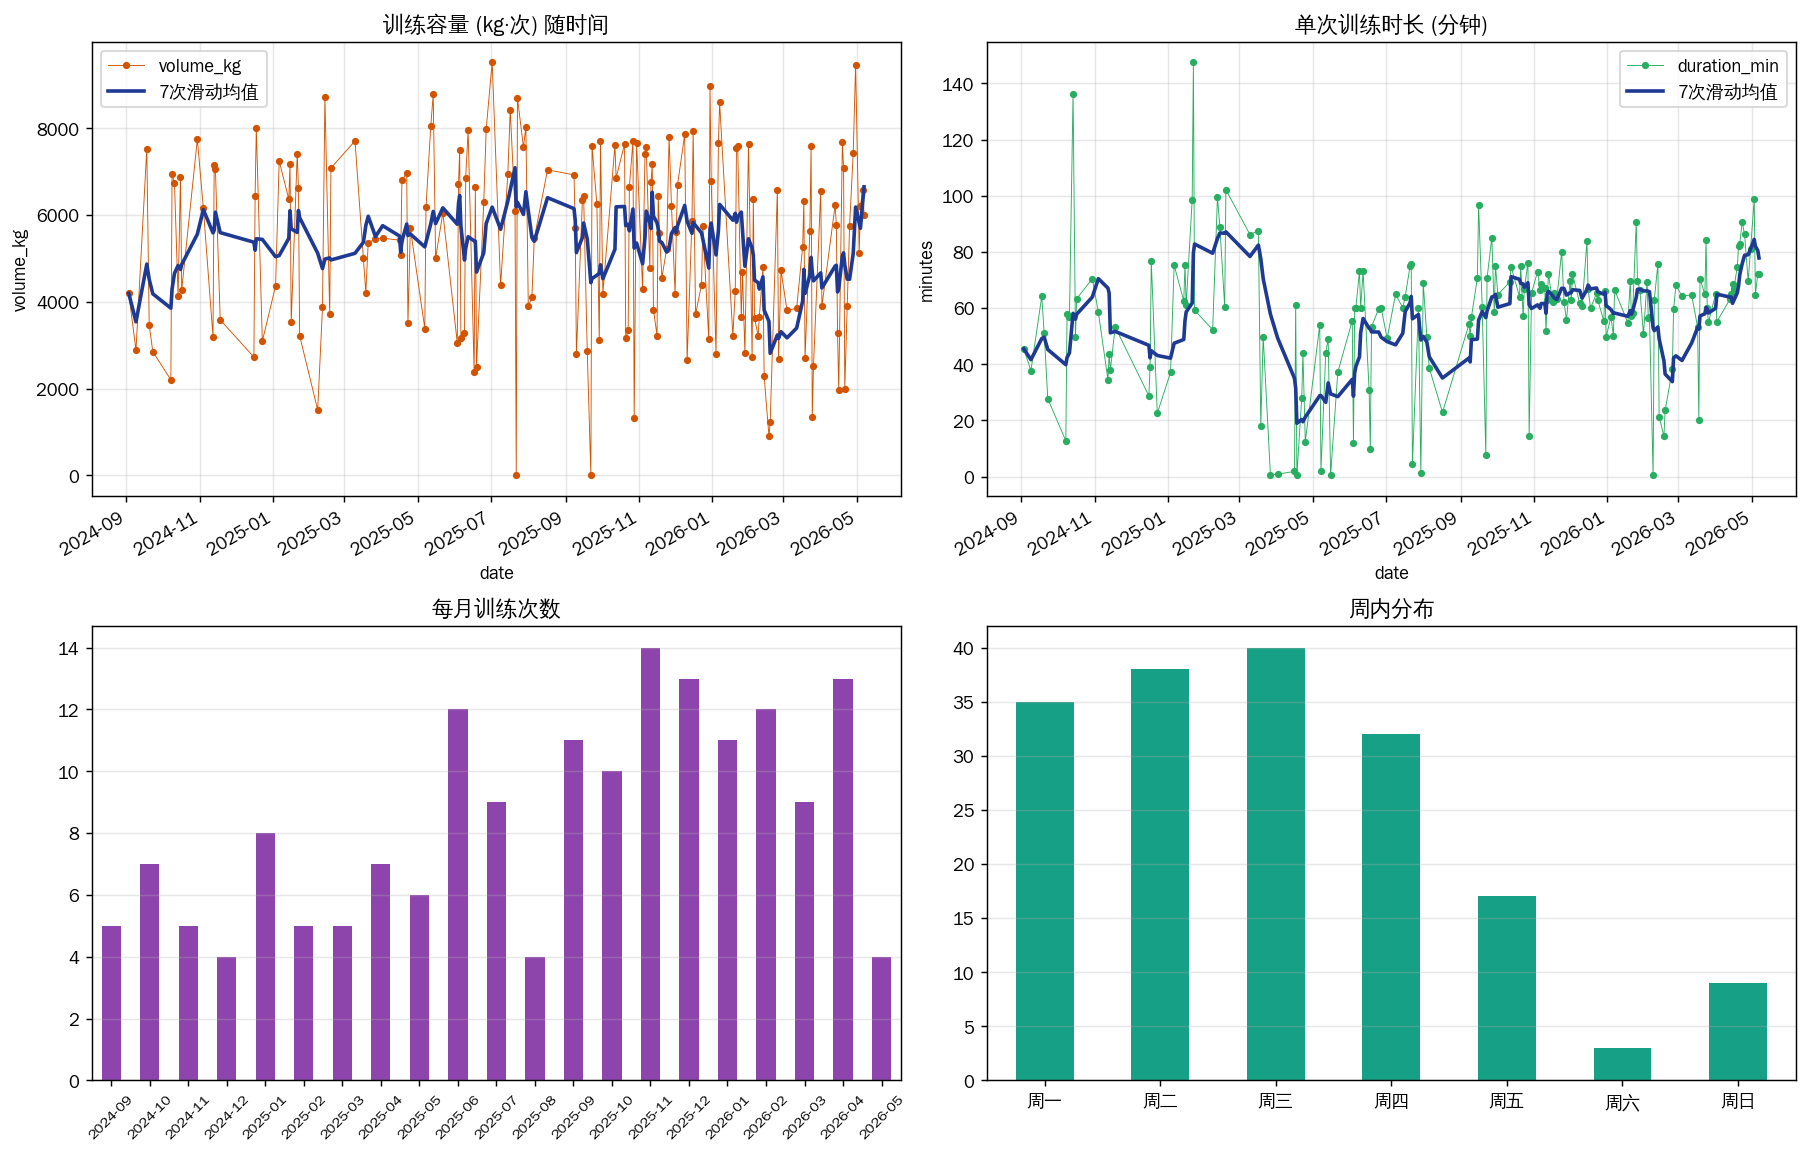
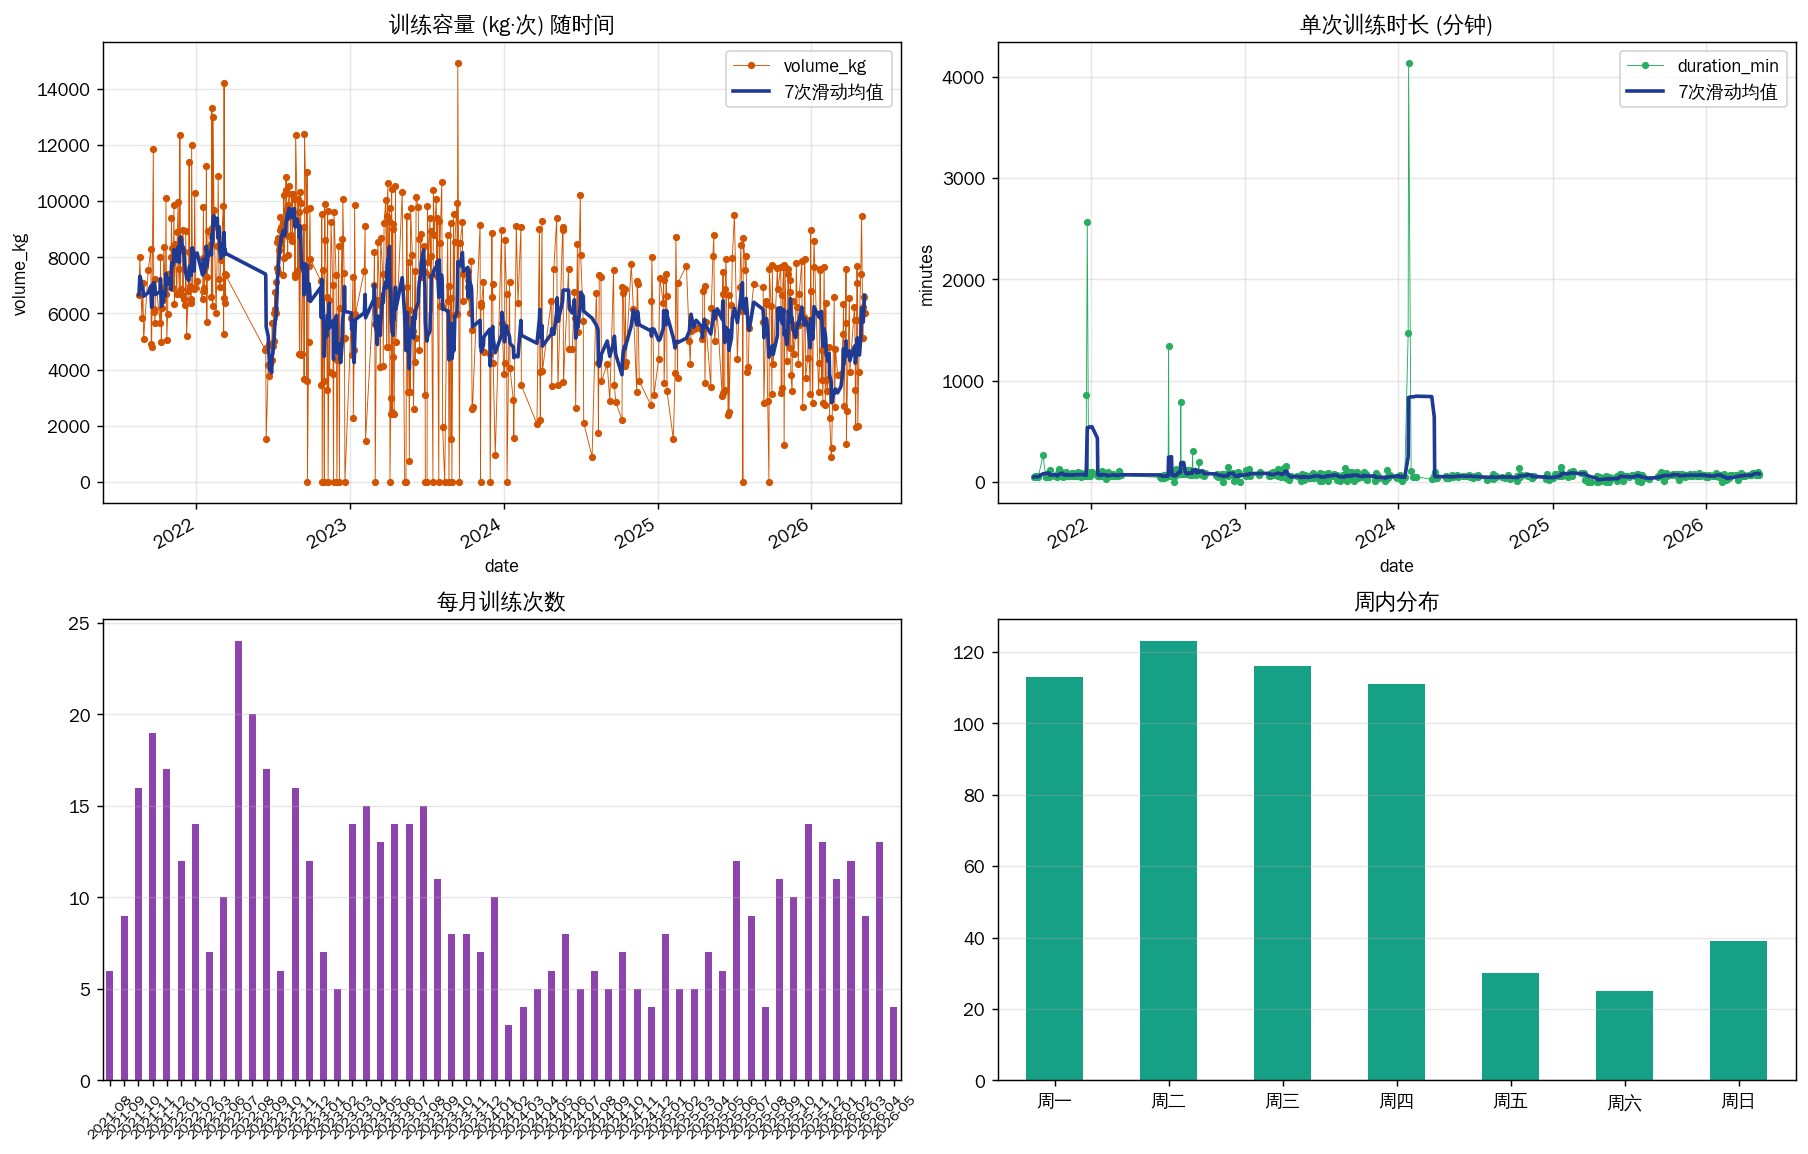
data: backfill 2021-08-18 → 2024-08-31 (557 sessions over 4.7 years)

diff --git a/analysis/report.md b/analysis/report.md
@@ -1,35 +1,70 @@
 # 训记数据分析报告
 
-**数据范围**: 2024-09-03 → 2026-05-07 (共 612 天)
-**训练日数**: 174 天 (训练频率 28.4%, 平均每周 1.99 次)
-**总训练时长**: 10006 分钟 ≈ 166.8 小时
-**总卡路里**: 48201 kcal (有记录的 117 次)
-**总训练容量**: 929,877 kg·次
-**总组数**: 3067  **总次数**: 26847
+**数据范围**: 2021-08-18 → 2026-05-07 (共 1724 天)
+**训练日数**: 557 天 (训练频率 32.3%, 平均每周 2.26 次)
+**总训练时长**: 46145 分钟 ≈ 769.1 小时
+**总卡路里**: 52993 kcal (有记录的 126 次)
+**总训练容量**: 3,492,629 kg·次
+**总组数**: 10998  **总次数**: 107554
 
 ## 单次训练分布
 ```
        duration_min  calorie  n_exercises  n_sets  volume_kg
-count         174.0    117.0        174.0   174.0      174.0
-mean           57.5    412.0          3.6    17.6     5344.1
-std            24.2    172.6          1.2     4.9     2084.7
-min             0.4      1.0          1.0     4.0        0.0
-25%            49.8    327.0          3.0    14.0     3592.5
-50%            61.0    437.0          4.0    17.0     5668.5
-75%            69.6    515.0          4.0    21.0     7055.0
-max           147.5    840.0          6.0    32.0     9520.0
+count         557.0    126.0        557.0   557.0      557.0
+mean           82.8    420.6          4.1    19.7     6270.4
+std           224.0    173.2          1.5     6.3     2758.3
+min             0.0      1.0          1.0     2.0        0.0
+25%            52.3    350.8          3.0    16.0     4345.0
+50%            62.6    437.5          4.0    20.0     6630.0
+75%            74.4    519.8          5.0    24.0     8193.5
+max          4141.9    840.0          8.0    33.0    14935.4
 ```
 
 ## 周内分布 (周几更常练)
-- 周一: 35 次
-- 周二: 38 次
-- 周三: 40 次
-- 周四: 32 次
-- 周五: 17 次
-- 周六: 3 次
-- 周日: 9 次
+- 周一: 113 次
+- 周二: 123 次
+- 周三: 116 次
+- 周四: 111 次
+- 周五: 30 次
+- 周六: 25 次
+- 周日: 39 次
 
 ## 每月训练频次
+- 2021-08: 6 次
+- 2021-09: 9 次
+- 2021-10: 16 次
+- 2021-11: 19 次
+- 2021-12: 17 次
+- 2022-01: 12 次
+- 2022-02: 14 次
+- 2022-03: 7 次
+- 2022-06: 10 次
+- 2022-07: 24 次
+- 2022-08: 20 次
+- 2022-09: 17 次
+- 2022-10: 6 次
+- 2022-11: 16 次
+- 2022-12: 12 次
+- 2023-01: 7 次
+- 2023-02: 5 次
+- 2023-03: 14 次
+- 2023-04: 15 次
+- 2023-05: 13 次
+- 2023-06: 14 次
+- 2023-07: 14 次
+- 2023-08: 15 次
+- 2023-09: 11 次
+- 2023-10: 8 次
+- 2023-11: 8 次
+- 2023-12: 7 次
+- 2024-01: 10 次
+- 2024-02: 3 次
+- 2024-03: 4 次
+- 2024-04: 5 次
+- 2024-05: 6 次
+- 2024-06: 8 次
+- 2024-07: 5 次
+- 2024-08: 6 次
 - 2024-09: 5 次
 - 2024-10: 7 次
 - 2024-11: 5 次
@@ -53,50 +88,52 @@ max           147.5    840.0          6.0    32.0     9520.0
 - 2026-05: 4 次
 
 ## 最常做的动作 (Top 20)
-- 抬腿: 59 次出现
-- 杠铃卧推: 50 次出现
-- 器械飞鸟: 36 次出现
-- 引体向上（辅助）: 35 次出现
-- 绳索臂屈伸: 33 次出现
-- 杠铃划船: 33 次出现
-- 硬拉: 28 次出现
-- 站姿杠铃推举: 27 次出现
-- 绳索跪姿卷腹: 26 次出现
-- 深蹲: 25 次出现
-- 侧平举: 23 次出现
-- 悍马机推胸: 23 次出现
-- 腿弯举: 22 次出现
-- 杠铃弯举: 18 次出现
-- 坐姿腿屈伸: 18 次出现
-- 哑铃划船: 15 次出现
-- 上斜哑铃弯举: 14 次出现
-- 悬挂抬腿: 13 次出现
-- 上斜杠铃卧推: 12 次出现
-- 双杠臂屈伸（辅助）: 11 次出现
+- 杠铃卧推: 183 次出现
+- 绳索臂屈伸: 149 次出现
+- 器械飞鸟: 119 次出现
+- 上斜杠铃卧推: 108 次出现
+- 悍马机推胸: 103 次出现
+- 引体向上（辅助）: 100 次出现
+- 抬腿: 97 次出现
+- 杠铃划船: 96 次出现
+- 站姿杠铃推举: 95 次出现
+- 深蹲: 94 次出现
+- 杠铃弯举: 86 次出现
+- 硬拉: 86 次出现
+- 侧平举: 65 次出现
+- 哑铃推肩: 64 次出现
+- 绳索弯举: 62 次出现
+- 器械弯举: 54 次出现
+- 宽距下拉: 47 次出现
+- 器械划船: 47 次出现
+- 悬挂抬腿: 41 次出现
+- 坐姿腿屈伸: 40 次出现
 
 ## 关键动作历史最高重量 (PR)
 - **卧推** → 杠铃卧推: 80kg × 8次 (2025-04-22)
-- **深蹲** → 深蹲: 100kg × 8次 (2025-06-10)
+- **深蹲** → 深蹲: 101.6kg × 6次 (2023-11-09)
 - **硬拉** → 硬拉: 110kg × 6次 (2025-05-22)
-- **划船** → 杠铃划船: 70kg × 8次 (2026-02-13)
-- **推举** → 史密斯机推举: 50kg × 8次 (2025-08-01)
-- **弯举** → 腿弯举: 41.5kg × 8次 (2026-04-25)
-- **下拉** → 悍马机正手下拉: 55kg × 10次 (2025-05-16)
-- **引体** → 引体向上（辅助）: 20kg × 10次 (2025-01-16)
-- **飞鸟** → 器械飞鸟: 65kg × 10次 (2024-09-18)
+- **划船** → 器械划船: 95.2kg × 10次 (2023-12-05)
+- **推举** → 悍马机坐姿推举: 53.8kg × 8次 (2023-11-08)
+- **弯举** → 坐姿腿弯举: 61.25kg × 10次 (2022-09-05)
+- **下拉** → 窄距下拉: 60kg × 9次 (2022-08-09)
+- **引体** → 引体向上（辅助）: 49kg × 12次 (2021-09-09)
+- **腿举** → 腿举: 80kg × 10次 (2021-09-26)
+- **飞鸟** → 器械飞鸟: 70kg × 10次 (2024-08-15)
+- **蹬** → 器械倒蹬: 141kg × 12次 (2023-09-14)
 
 ## 连续性
-- 最长连续训练: **4 天**
-- 平均训练间隔: 3.5 天 (中位 2)
-- 最长断练: **28 天**
+- 最长连续训练: **7 天**
+- 平均训练间隔: 3.1 天 (中位 1)
+- 最长断练: **94 天**
 
 ## 几个有意思的单次训练
 **容量最大的 3 次:**
-- 2025-07-02  9,520 kg·次  16组 49分钟  (哈克机深蹲, 哑铃推肩)
-- 2026-04-30  9,463 kg·次  20组 81分钟  (深蹲, 坐姿腿屈伸, 坐姿髋内收, 器械弯举)
-- 2025-12-30  8,980 kg·次  27组 66分钟  (杠铃卧推, 上斜杠铃卧推, 绳索臂屈伸, 抬腿, 绳索跪姿卷腹)
+- 2023-09-14  14,935 kg·次  20组 50分钟  (硬拉, 站姿杠铃推举, 器械倒蹬, 器械侧平举)
+- 2022-03-08  14,206 kg·次  32组 102分钟  (哑铃酒杯深蹲, 深蹲, 坐姿腿屈伸, 坐姿腿弯举, 坐姿髋外展)
+- 2022-02-07  13,330 kg·次  31组 65分钟  (哑铃酒杯深蹲, 深蹲, 坐姿腿屈伸, 坐姿腿弯举, 坐姿髋外展)
 
 **时间最长的 3 次:**
-- 2025-01-22  148分钟  6,630kg·次  (站姿杠铃推举, 深蹲, 硬拉)
-- 2024-10-14  136分钟  4,135kg·次  (引体向上（辅助）, 杠铃划船, 杠铃弯举, 绳索弯举)
-- 2025-02-18  102分钟  7,082kg·次  (硬拉, 坐姿腿屈伸, 杠铃弯举, 抬腿)
+- 2024-01-25  4142分钟  1,565kg·次  (杠铃弯举, 绳索弯举)
+- 2021-12-23  2565分钟  6,915kg·次  (杠铃卧推, 双杠臂屈伸, 上斜杠铃卧推, 悍马机推胸, 绳索臂屈伸)
+- 2024-01-24  1469分钟  2,896kg·次  (站姿杠铃推举, 侧平举, 悬挂抬腿)
